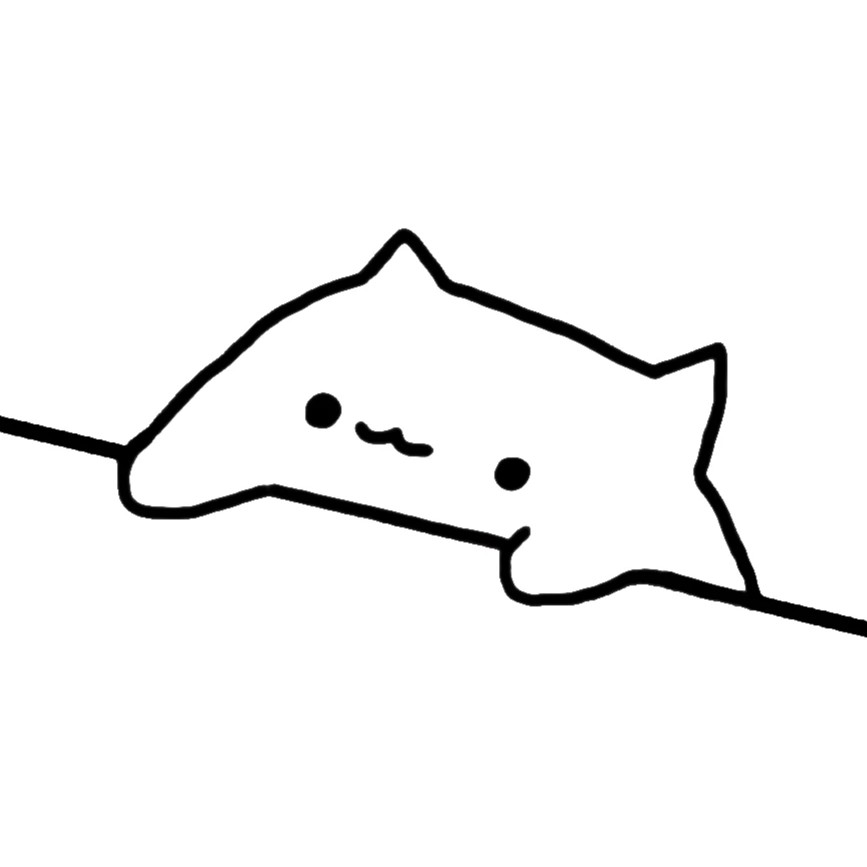
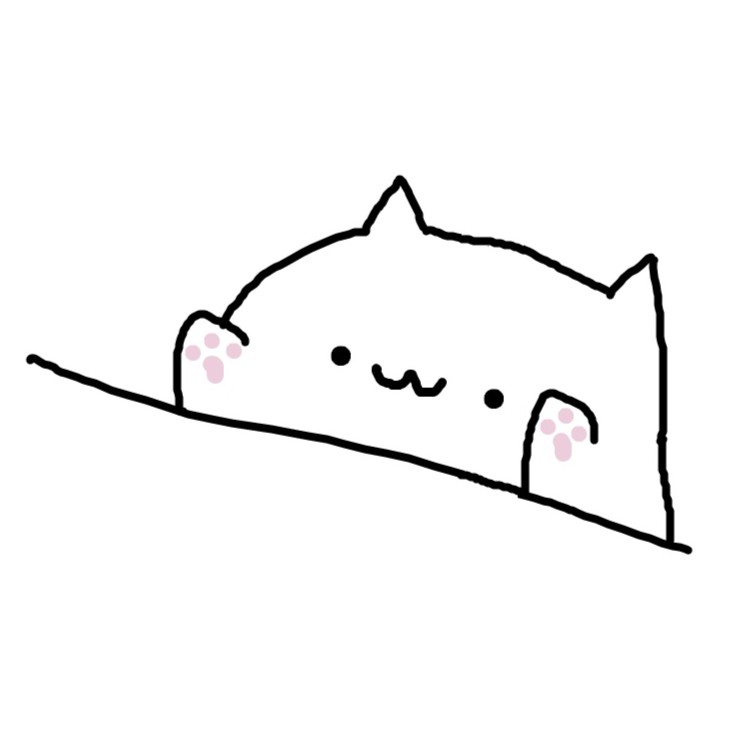
Update AI comments and image

Changed region(s): [[0.0, 0.2152, 1.0, 0.738], [0.7072, 0.3382, 0.7687, 0.369], [0.6457, 0.5227, 0.6765, 0.5535]]

diff --git a/AI.md b/AI.md
@@ -9,3 +9,8 @@ Tool used: Github Copilot
 Description:
 - Suggest methods to add a welcome message in the gui
 - Suggest methods to add goodbye message in the gui and close app on next input
+
+Commit: 20beb653439aa135071a4921ef7763de14188cd2
+Tool used: Github Copilot
+Description:
+- Debug Github Actions text UI test failure on ubuntu

diff --git a/src/main/resources/images/credits.md b/src/main/resources/images/credits.md
@@ -1,1 +1,2 @@
-Catbot.jpg: https://wallpapercave.com/wp/wp5003547.png
+Catbot.jpg: self-drawn, referenced from https://github.com/Externalizable/bongo.cat
+User.jpeg: original photo
